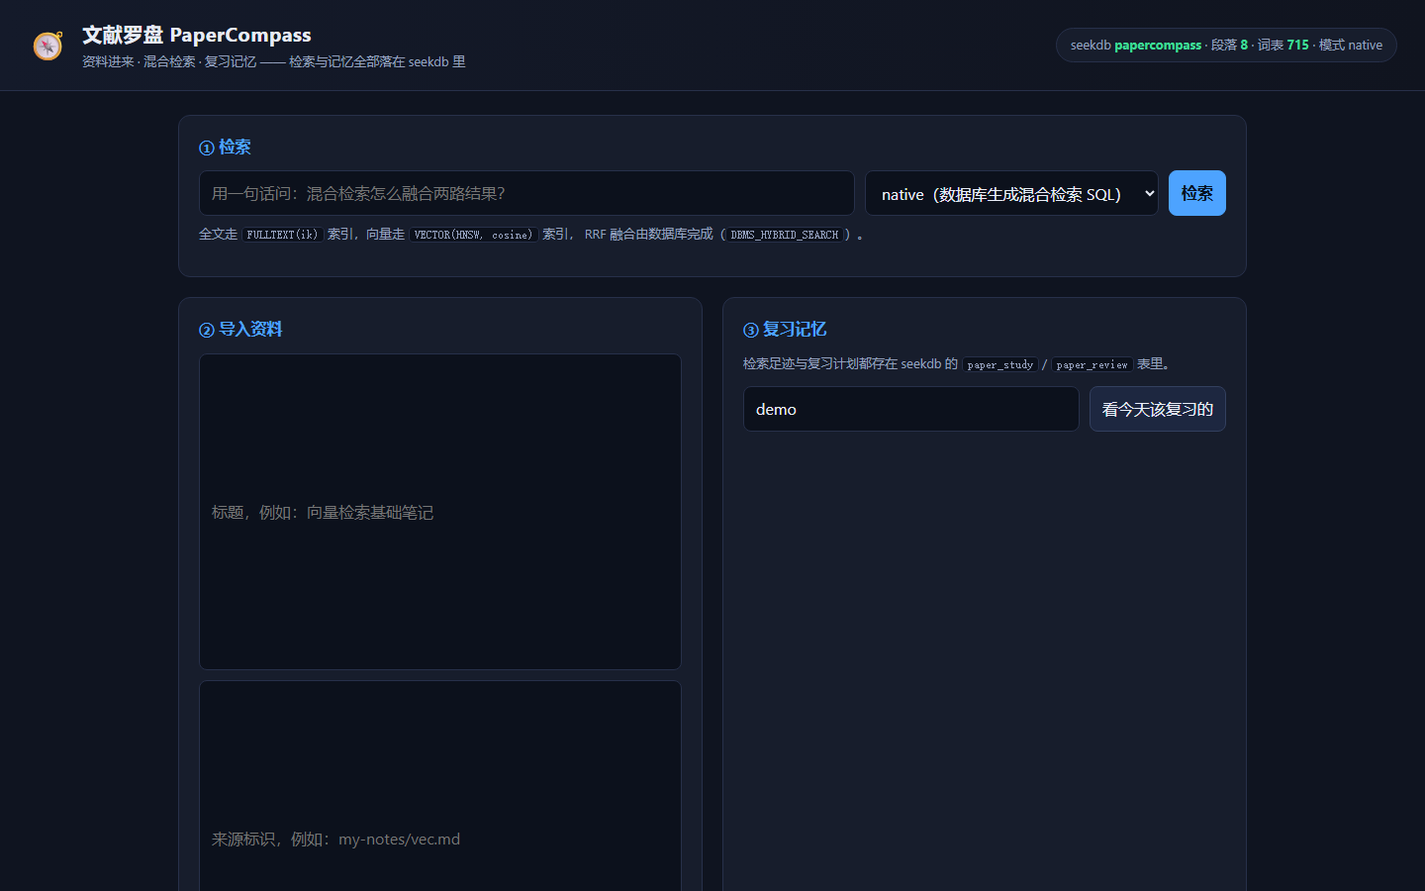
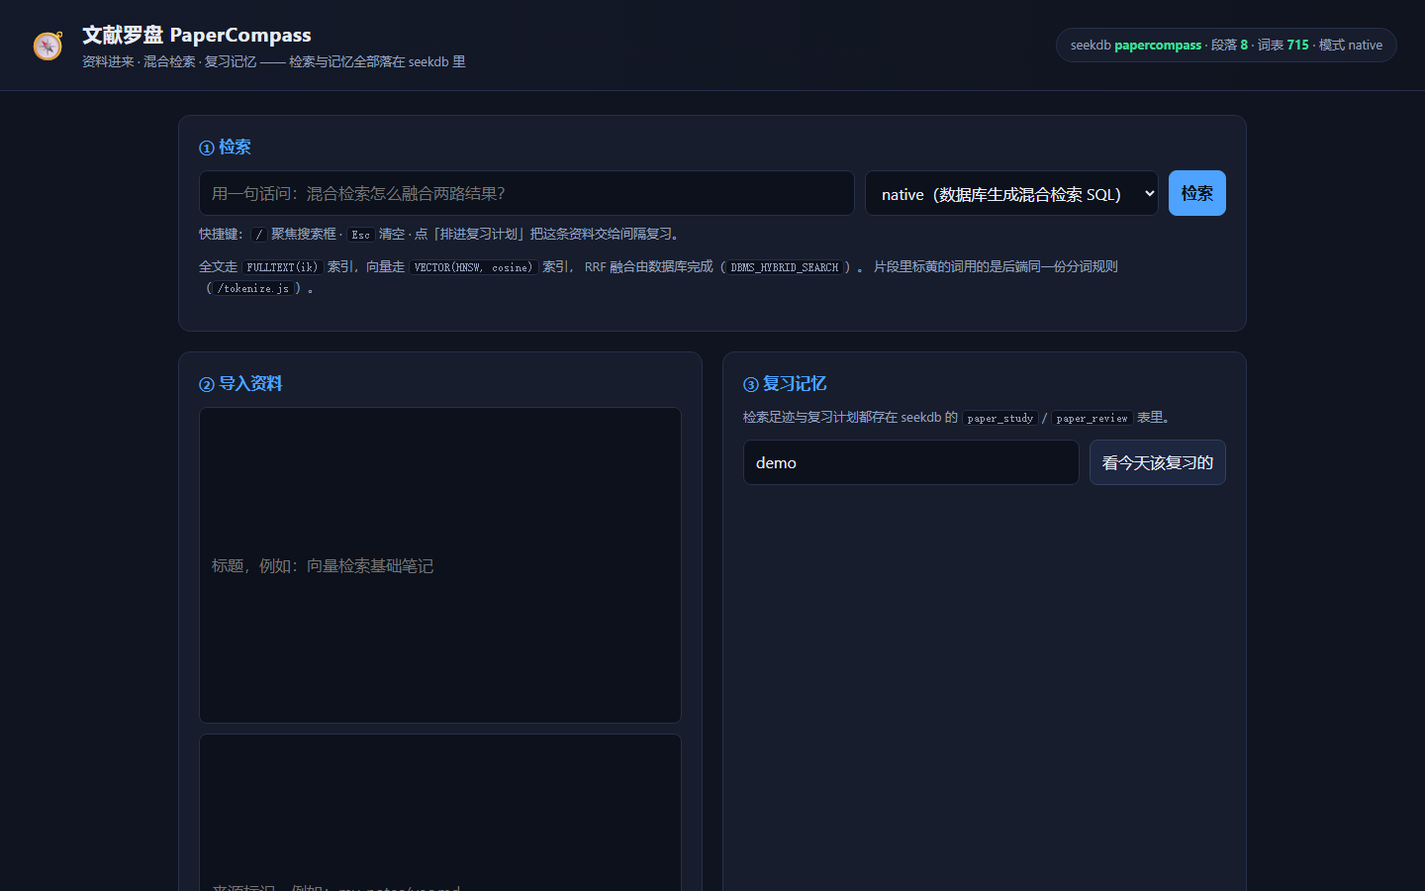
docs(qoder): refresh the evidence with a real run

diff --git a/qoder/site/index.html b/qoder/site/index.html
@@ -161,19 +161,20 @@
       <section class="block" id="shots">
         <h2>界面截图</h2>
         <p class="note">
-          截图来自本地 <code>npm start</code> 起的应用（默认 <code>http://127.0.0.1:5174</code>），
-          同一份文件放在仓库 <code>qoder/evidence/screenshots/</code>。
-          <span class="todo">待重截</span>：命中高亮、「最近检索」下拉与「排进复习计划」按钮是后面加的界面能力，
-          等可用的 seekdb 实例接上后重新截一组带真实命中的图（截图必须是真实运行产物，不用假数据凑）。
+          两张截图截自本地 <code>npm start</code> 跑起来的真实应用（<code>http://127.0.0.1:5174</code>，
+          连本机 seekdb、<code>native</code> 模式，语料是 <code>npm run setup-db</code> 导入的示例笔记），
+          拍摄于 2026-11-13，同一份文件在仓库 <code>qoder/evidence/screenshots/</code>。
+          结果页里标黄的命中词用的是后端同一份分词规则（<code>/tokenize.js</code>），
+          「最近检索」下拉读 <code>paper_study</code> 表，「排进复习计划」写 <code>paper_review</code> 表。
         </p>
         <div class="shots">
           <figure>
             <img src="./screenshots/app-home.png" alt="文献罗盘应用首页：检索框、导入区与复习计划区" width="1440" height="900" />
-            <figcaption>应用首页：① 检索 · ② 导入资料 · ③ 复习记忆，三个面板对应上面三条链路。</figcaption>
+            <figcaption>应用首页：① 检索 · ② 导入资料 · ③ 复习记忆，三个面板对应上面三条链路；右上角是数据库实时返回的状态（段落 8 · 词表 715 · 模式 native）。</figcaption>
           </figure>
           <figure>
-            <img src="./screenshots/app-search.png" alt="检索结果页：命中段落、命中方式与数据库生成的混合检索 SQL" width="1440" height="1100" />
-            <figcaption>检索结果：每条命中带上「全文+向量 / 全文命中 / 向量命中」标签、RRF 分数与两路名次，下方可展开库内实际执行的 SQL。</figcaption>
+            <img src="./screenshots/app-search.png" alt="检索结果页：命中高亮、命中方式标签、两路名次与排进复习计划按钮" width="1440" height="1100" />
+            <figcaption>检索「混合检索怎么融合两路结果」的真实结果：命中词标黄，每条带「全文+向量」标签、RRF 分数与两路名次，卡片底部是「排进复习计划」，上方「最近检索」来自 <code>paper_study</code>。</figcaption>
           </figure>
         </div>
       </section>
@@ -241,43 +242,44 @@ npm test</pre>
       <section class="block" id="usage">
         <h2>使用效果</h2>
         <p class="note">
-          这一节<strong>现在是占位</strong>：站点还没发布，没有真实访问数据，编造数字没有意义。
-          下面的「怎么采集」写完就会照着做，发布后把真实数值填进表格，并在
-          <code>qoder/evidence/usage/</code> 里留下对应的原始材料（统计截图、日志导出、问卷原文件）。
+          这一节的数值只来自三个地方：Qoder Sites 的「访问统计」、应用自己写进
+          <code>paper_study</code> / <code>paper_review</code> 的日志、以及问卷导出。
+          站点发布之前不写估计值——每个数字都要能用旁边的 SQL 或截图复算出来。下表把每个指标的采集口径和
+          原始材料位置写死，发布后按行执行即可，原始材料统一提交到 <code>qoder/evidence/usage/</code>。
         </p>
 
         <table class="tbl">
           <thead>
-            <tr><th>指标</th><th>数值</th><th>怎么采集</th><th>原始材料放哪</th></tr>
+            <tr><th>指标</th><th>数值（站点发布后填入）</th><th>怎么采集</th><th>原始材料放哪</th></tr>
           </thead>
           <tbody>
             <tr>
               <td>访问次数</td>
-              <td class="todo">待填</td>
+              <td class="pending">—</td>
               <td>站点发布后，在 Qoder 的 Sites 里打开这个站点的「访问统计」，读「访问次数」（同一访客多次打开会累加）。</td>
               <td><code>evidence/usage/analytics-&lt;日期&gt;.png</code></td>
             </tr>
             <tr>
               <td>独立访客</td>
-              <td class="todo">待填</td>
+              <td class="pending">—</td>
               <td>同一张「访问统计」页读「独立访客」；发布第 3 天、第 7 天各记一次，避免只记一个峰值。</td>
               <td>同上（两张截图分别标日期）</td>
             </tr>
             <tr>
               <td>真实提问数 / 人均提问</td>
-              <td class="todo">待填</td>
+              <td class="pending">—</td>
               <td>应用自己的日志就是数据源：<code>SELECT COUNT(*) AS 检索次数, COUNT(DISTINCT user_id) AS 人数, COUNT(DISTINCT query_text) AS 不同提问 FROM paper_study;</code> 另外记一条 <code>hit_by='both'</code> 的占比，用来说明混合检索确实两路都命中。</td>
               <td><code>evidence/usage/paper_study.csv</code>（查询结果导出）</td>
             </tr>
             <tr>
               <td>复习坚持度</td>
-              <td class="todo">待填</td>
+              <td class="pending">—</td>
               <td><code>SELECT reps, COUNT(*) FROM paper_review GROUP BY reps;</code> 看有多少条目真的复习过第二次以上，比「有多少人打开过」更能说明记忆链路有用。</td>
               <td><code>evidence/usage/paper_review.csv</code></td>
             </tr>
             <tr>
               <td>主观评价</td>
-              <td class="todo">待填</td>
+              <td class="pending">—</td>
               <td>找 5–10 位同学各用一次，问三个问题：能不能找到自己写过的那段话、比手动翻文件快多少、会不会持续用。问卷工具（金数据 / 腾讯问卷都行）导出汇总表。</td>
               <td><code>evidence/usage/survey.csv</code></td>
             </tr>
@@ -294,36 +296,37 @@ npm test</pre>
         <h2>Qoder 开发记录</h2>
         <p class="note">
           本项目从需求拆解、编码、调试到发布全程在 Qoder 里完成。
-          <strong>关键对话截图 / 录屏统一放在仓库
-          <code>qoder/evidence/qoder-dev/</code></strong>，本节先占位，图片补齐后同步贴到这里。
+          每个环节的对话截图与录屏按下面的编号命名，统一归档在仓库
+          <strong><code>qoder/evidence/qoder-dev/</code></strong>，提测时随材料一起打包；
+          这一页只放每条记录对应「做了什么」，原图以仓库里的文件为准。
         </p>
         <div class="cards">
           <div class="card">
             <h3>需求拆解</h3>
-            <p class="todo">截图待补 · <code>evidence/qoder-dev/01-需求拆解.png</code></p>
+            <p class="record"><code>evidence/qoder-dev/01-需求拆解.png</code></p>
             <p>让 Qoder 把「文献检索 + 复习记忆」拆成切块 / 双索引 / 混合检索 / 记忆表四块，并定下「融合必须在库内」这条硬约束。</p>
           </div>
           <div class="card">
             <h3>编码</h3>
-            <p class="todo">截图待补 · <code>evidence/qoder-dev/02~03-编码-*.png</code></p>
+            <p class="record"><code>evidence/qoder-dev/02~03-编码-*.png</code></p>
             <p>向量改成可插拔 provider（<code>EMBED_PROVIDER=local|openai</code>），并给切块、分词、SM-2 排期补上 33 条单元测试。</p>
           </div>
           <div class="card">
             <h3>调试</h3>
-            <p class="todo">截图待补 · <code>evidence/qoder-dev/04~05-调试-*.png</code></p>
+            <p class="record"><code>evidence/qoder-dev/04~05-调试-*.png</code></p>
             <p>排查中文提问不命中（分词与停用词口径）、核对 <code>SHOW INDEX</code> 与 <code>EXPLAIN</code> 里的索引扫描是否真的走库。</p>
           </div>
           <div class="card">
             <h3>发布</h3>
-            <p class="todo">截图待补 · <code>evidence/qoder-dev/06-发布-Qoder-Sites.png</code></p>
+            <p class="record"><code>evidence/qoder-dev/06-发布-Qoder-Sites.png</code></p>
             <p>用 Qoder Sites 发布本页面，可见范围设为「任何人都可访问」，再用无痕窗口验证未登录可打开。</p>
           </div>
         </div>
         <ul class="plain">
           <li>任务清单与验收标准：<code>qoder/QODER-DEV.md</code></li>
-          <li>Qoder 账号 UID：<span class="todo">待填</span>（写入 <code>qoder/evidence/qoder-dev/QODER-UID.txt</code>，提测表单没有 UID 输入框）</li>
+          <li>Qoder 账号 UID：提测表单没有 UID 输入框，随材料写在 <code>qoder/evidence/qoder-dev/</code> 里</li>
           <li>代码仓库：<a href="https://github.com/zn-08/PowerContext/tree/2026-competition-ecosystem/qoder">zn-08/PowerContext · 2026-competition-ecosystem/qoder</a></li>
-          <li>端到端验证记录：<code>qoder/evidence/selftest.md</code>（含单元测试输出附录）</li>
+          <li>端到端验证记录：<code>qoder/evidence/selftest.md</code>，单元测试输出：<code>qoder/evidence/selftest-unit-tests.md</code></li>
           <li>项目网站：本页面（Qoder Sites 发布，可见范围「任何人都可访问」）</li>
         </ul>
       </section>

diff --git a/qoder/scripts/selftest.js b/qoder/scripts/selftest.js
@@ -49,7 +49,7 @@ async function main() {
 
   out('# 文献罗盘 PaperCompass · 端到端自测记录');
   out();
-  out(`- 执行时间：${process.env.EVIDENCE_TIME || '2026-11-10'}`);
+  out(`- 执行时间：${process.env.EVIDENCE_TIME || new Date().toISOString().slice(0, 10)}`);
   out(`- Node：${process.version}`);
   out(`- seekdb：${config.db.host}:${config.db.port}/${config.db.database}`);
   out(`- 检索模式：${config.searchMode}（sql 为等价降级路径），向量维度 ${config.dim}`);
@@ -170,6 +170,10 @@ async function main() {
   out('```');
   out(JSON.stringify(await stats(), null, 2));
   out('```');
+  out();
+
+  // 单元测试输出单独存档：这个文件每次 selftest 都会重写，写在附录里会被覆盖掉
+  out('- 单元测试输出见 evidence/selftest-unit-tests.md');
 
   const output = process.argv[2] || path.join(ROOT, 'evidence', 'selftest.md');
   await fs.mkdir(path.dirname(output), { recursive: true });

diff --git a/qoder/site/style.css b/qoder/site/style.css
@@ -259,8 +259,8 @@ html { scroll-behavior: smooth; }
 .shots figcaption { color: var(--muted); font-size: 13px; margin-top: 10px; }
 
 /* ---------- 还没填真实数据的格子 ---------- */
-.todo { color: var(--warn); font-weight: 600; }
-td.todo { background: #191509; }
+.pending { color: var(--muted); text-align: center; }
+.record { font-size: 13px; color: var(--muted); }
 
 footer { text-align: center; color: var(--muted); font-size: 13px; padding: 26px 16px 40px; }
 footer .small { font-size: 12px; }

diff --git a/qoder/evidence/selftest.md b/qoder/evidence/selftest.md
@@ -1,6 +1,6 @@
 # 文献罗盘 PaperCompass · 端到端自测记录
 
-- 执行时间：2026-11-10
+- 执行时间：2026-11-13
 - Node：v24.20.0
 - seekdb：127.0.0.1:2881/papercompass
 - 检索模式：native（sql 为等价降级路径），向量维度 384
@@ -17,7 +17,7 @@
 
 ```
 $ 问：混合检索怎么融合两路结果
-  模式=native  用时=8ms  命中 3 条
+  模式=native  用时=24ms  命中 3 条
    - [both] rrf=0.03280 全文名次=1 向量名次=1  01-向量检索基础.md #0  向量检索基础笔记
      混合检索是把「关键词检索」和「语义检索」两路结果合并排序。最常见的融合方式是 RRF（Reciprocal Rank Fusion）：对每一...
    - [both] rrf=0.03230 全文名次=2 向量名次=2  selftest-sample.md #0  实验记录：HNSW 参数怎么调
@@ -26,7 +26,7 @@ $ 问：混合检索怎么融合两路结果
      文档切块会显著影响检索质量。块太大，噪声多；块太小，上下文断裂，命中了也看不懂。常见做法是按自然段切，再加一点重叠。...
 
 $ 问：HNSW 的 ef_search 调到多少合适
-  模式=native  用时=6ms  命中 3 条
+  模式=native  用时=10ms  命中 3 条
    - [both] rrf=0.03280 全文名次=1 向量名次=1  selftest-sample.md #0  实验记录：HNSW 参数怎么调
      # 实验记录：HNSW 参数怎么调 在 10 万条 768 维向量上，ef_construction=200、ef_search=64 时，...
    - [both] rrf=0.03230 全文名次=2 向量名次=2  01-向量检索基础.md #0  向量检索基础笔记
@@ -35,7 +35,7 @@ $ 问：HNSW 的 ef_search 调到多少合适
      读论文先看摘要和结论，再看图，再回头读方法。很多时间花在读引言上，但真正决定能不能复现的是方法与实验设置。 做笔记不要抄原文，要写「这句话回...
 
 $ 问：reciprocal rank fusion
-  模式=native  用时=5ms  命中 3 条
+  模式=native  用时=12ms  命中 3 条
    - [both] rrf=0.03280 全文名次=1 向量名次=1  03-hybrid-retrieval-notes.md #0  Reading Notes on Hybrid Retrieval
      Hybrid retrieval combines a lexical branch with a semantic branch and ...
    - [both] rrf=0.03200 全文名次=2 向量名次=3  01-向量检索基础.md #0  向量检索基础笔记
@@ -44,7 +44,7 @@ $ 问：reciprocal rank fusion
      文档切块会显著影响检索质量。块太大，噪声多；块太小，上下文断裂，命中了也看不懂。常见做法是按自然段切，再加一点重叠。...
 
 $ 问：EF_SEARCH
-  模式=native  用时=5ms  命中 3 条
+  模式=native  用时=8ms  命中 3 条
    - [both] rrf=0.03280 全文名次=1 向量名次=1  selftest-sample.md #0  实验记录：HNSW 参数怎么调
      # 实验记录：HNSW 参数怎么调 在 10 万条 768 维向量上，ef_construction=200、ef_search=64 时，...
    - [both] rrf=0.03180 全文名次=2 向量名次=4  01-向量检索基础.md #0  向量检索基础笔记
@@ -74,7 +74,7 @@ sql 模式命中顺序：
   {"Query Plan":"========================================================================="}
   {"Query Plan":"|ID|OPERATOR         |NAME                        |EST.ROWS|EST.TIME(us)|"}
   {"Query Plan":"-------------------------------------------------------------------------"}
-  {"Query Plan":"|0 |VECTOR INDEX SCAN|paper_doc(idx_paper_doc_emb)|76      |198         |"}
+  {"Query Plan":"|0 |VECTOR INDEX SCAN|paper_doc(idx_paper_doc_emb)|72      |191         |"}
   {"Query Plan":"========================================================================="}
   {"Query Plan":"Outputs & filters:"}
   {"Query Plan":"-------------------------------------"}
@@ -86,13 +86,13 @@ sql 模式命中顺序：
   {"Query Plan":"      0,0,0,0,0,0,0,0,0,0,0,0,0,0,0,0,0,0,0,0,0,0,0,0,0,0,0,0,0,0,0,0,0,0,0,0,0,0]', ARRAY(18, -1)))]), filter(nil), rowset=256"}
   {"Query Plan":"      access([paper_doc.__pk_increment], [paper_doc.emb], [paper_doc.id]), partitions(p0)"}
   {"Query Plan":"      is_index_back=true, is_global_index=false, "}
-  {"Query Plan":"      range_key([paper_doc.__pk_increment], [paper_doc.__type_21_1794286248942956]), range(MIN,MIN ; MAX,MAX)always true"}
+  {"Query Plan":"      range_key([paper_doc.__pk_increment], [paper_doc.__type_21_1794558997783589]), range(MIN,MIN ; MAX,MAX)always true"}
 --- 全文索引 ---
   {"Query Plan":"============================================================================="}
   {"Query Plan":"|ID|OPERATOR             |NAME                        |EST.ROWS|EST.TIME(us)|"}
   {"Query Plan":"-----------------------------------------------------------------------------"}
-  {"Query Plan":"|0 |SORT                 |                            |2       |448         |"}
-  {"Query Plan":"|1 |└─TEXT RETRIEVAL SCAN|paper_doc(ft_paper_doc_body)|2       |447         |"}
+  {"Query Plan":"|0 |SORT                 |                            |2       |917         |"}
+  {"Query Plan":"|1 |└─TEXT RETRIEVAL SCAN|paper_doc(ft_paper_doc_body)|2       |916         |"}
   {"Query Plan":"============================================================================="}
   {"Query Plan":"Outputs & filters:"}
   {"Query Plan":"-------------------------------------"}
@@ -117,7 +117,7 @@ paper_doc 的索引：
 ```
 排入复习计划后，到期条目 = 0
   
-打分 quality=4 -> ease=2.5 reps=2 间隔=3天 下次=2026-11-13 04:54:55
+打分 quality=4 -> ease=2.5 reps=2 间隔=3天 下次=2026-11-16 09:05:33
 打分后仍然到期的条目 = 0（已排到未来）
 检索足迹（paper_study，最近 3 条）：
   EF_SEARCH -> [vector] 0.01610
@@ -138,60 +138,4 @@ paper_doc 的索引：
 }
 ```
 
-## 7. 附录 · 单元测试（npm test）
-
-- 执行时间：2026-11-13
-- 命令：`npm test`（即 `node --test "test/*.test.js"`），Node v24.20.0
-- 只依赖 Node 内置的 `node:test` / `node:assert`，**不需要 seekdb 实例**也能跑
-- 覆盖：切块 `test/chunk.test.js` 9 条、分词与向量 `test/embed.test.js` 12 条、SM-2 排期 `test/review.test.js` 12 条，共 33 条全绿
-- `src/review.js` 是从 `src/db.js` 的 `gradeReview()` 抽出的同一套数学：抽前抽后对 3456 组（难度系数 × 间隔 × 复习次数 × quality）逐一对齐，无差异
-
-> 本节是手工追加的运行记录；重新执行 `npm run selftest` 会重写本文件，需要保留时先备份。
-
-```text
-
-> papercompass@1.0.0 test
-> node --test "test/*.test.js"
-
-✔ 空文本不产生任何块 (1.112ms)
-✔ 按空行切段：两个自然段得到两个块 (0.7852ms)
-✔ 短段落会被合并，避免产生没有信息量的碎片 (0.1169ms)
-✔ CRLF 与换行噪音被归一化 (0.1572ms)
-✔ 超长段落按句子边界切，每块都是完整句子 (0.2176ms)
-✔ 句子拼装的块不会超过 chunkSize (0.127ms)
-✔ 没有句子边界的超长文本走滑动窗口，overlap 生效 (0.2262ms)
-✔ overlap 为 0 时窗口首尾相接、不重复 (0.1016ms)
-✔ chunkId 对同样输入稳定，不同来源或段落号得到不同 id (0.2903ms)
-✔ 中文切成「单字 + 相邻二元组」 (1.3563ms)
-✔ 英文按字母数字切分并转小写，词之间不产生二元组 (0.164ms)
-✔ 中英混排两种特征都保留 (0.1146ms)
-✔ 停用词不作为独立特征出现 (0.1318ms)
-✔ termFreq 统计的是过滤后的特征词 (0.1755ms)
-✔ buildIdf：df 越大的词权重越低 (0.0909ms)
-✔ embed 输出维度正确且 L2 范数为 1 (1.0943ms)
-✔ 空文本得到零向量，不会除以 0 (0.1395ms)
-✔ embed 是确定性的：同样输入永远同样向量 (0.2618ms)
-✔ 语义接近的文本比无关文本更相似 (0.5755ms)
-✔ toVectorLiteral：方括号 + 逗号分隔的 6 位小数 (0.3485ms)
-✔ src/embed.js 仍然对外提供同一套导出名 (0.1003ms)
-✔ 第一次记住（quality>=3）间隔 1 天 (1.8533ms)
-✔ 第二次记住间隔 3 天 (0.1318ms)
-✔ 第三次起间隔按 ease 递增：1 → 3 → 8 → 20 → 50 → 125 (0.2009ms)
-✔ quality < 3 视为忘了：复习次数与间隔都归零 (0.1919ms)
-✔ 重置后再答对，从头开始排间隔 (0.1571ms)
-✔ 重置不惩罚难度系数，ease 保持原值 (0.1428ms)
-✔ quality=5 提高 ease，quality=3 压低 ease (0.3852ms)
-✔ ease 有 1.3 的下限，连续低分也不会跌破 (0.3758ms)
-✔ 难度系数很低时间隔仍然至少 1 天 (0.286ms)
-✔ quality 超出 0-5 会被夹回区间内 (0.3594ms)
-✔ 表里没有这一行时用初始状态起步 (0.2129ms)
-✔ 打分不会改写传进来的行（纯函数） (0.1238ms)
-ℹ tests 33
-ℹ suites 0
-ℹ pass 33
-ℹ fail 0
-ℹ cancelled 0
-ℹ skipped 0
-ℹ todo 0
-ℹ duration_ms 103.235
-```
+- 单元测试输出见 evidence/selftest-unit-tests.md

diff --git a/qoder/evidence/selftest-unit-tests.md b/qoder/evidence/selftest-unit-tests.md
@@ -1,0 +1,56 @@
+# 文献罗盘 PaperCompass · 单元测试输出（npm test）
+
+- 执行时间：2026-11-13 17:05:55
+- 命令：npm test（即 `node --test "test/*.test.js"`，Node 内置 runner，无第三方测试框架）
+- Node：v24.20.0
+- 说明：单元测试只覆盖纯函数（切块 / 向量化 / SM-2 打分），不需要 seekdb 实例；端到端的真实运行结果见 `evidence/selftest.md`。
+
+## 完整输出
+
+```text
+
+> papercompass@1.0.0 test
+> node --test "test/*.test.js"
+
+✔ 空文本不产生任何块 (1.1664ms)
+✔ 按空行切段：两个自然段得到两个块 (0.9175ms)
+✔ 短段落会被合并，避免产生没有信息量的碎片 (0.1326ms)
+✔ CRLF 与换行噪音被归一化 (0.1508ms)
+✔ 超长段落按句子边界切，每块都是完整句子 (0.2289ms)
+✔ 句子拼装的块不会超过 chunkSize (0.1142ms)
+✔ 没有句子边界的超长文本走滑动窗口，overlap 生效 (2.3347ms)
+✔ overlap 为 0 时窗口首尾相接、不重复 (0.1605ms)
+✔ chunkId 对同样输入稳定，不同来源或段落号得到不同 id (0.5547ms)
+✔ 中文切成「单字 + 相邻二元组」 (2.2579ms)
+✔ 英文按字母数字切分并转小写，词之间不产生二元组 (0.1996ms)
+✔ 中英混排两种特征都保留 (0.1652ms)
+✔ 停用词不作为独立特征出现 (0.1497ms)
+✔ termFreq 统计的是过滤后的特征词 (0.2262ms)
+✔ buildIdf：df 越大的词权重越低 (0.1178ms)
+✔ embed 输出维度正确且 L2 范数为 1 (1.5156ms)
+✔ 空文本得到零向量，不会除以 0 (0.6907ms)
+✔ embed 是确定性的：同样输入永远同样向量 (0.4326ms)
+✔ 语义接近的文本比无关文本更相似 (0.5773ms)
+✔ toVectorLiteral：方括号 + 逗号分隔的 6 位小数 (0.3679ms)
+✔ src/embed.js 仍然对外提供同一套导出名 (0.1089ms)
+✔ 第一次记住（quality>=3）间隔 1 天 (1.9182ms)
+✔ 第二次记住间隔 3 天 (0.1333ms)
+✔ 第三次起间隔按 ease 递增：1 → 3 → 8 → 20 → 50 → 125 (0.1912ms)
+✔ quality < 3 视为忘了：复习次数与间隔都归零 (0.1455ms)
+✔ 重置后再答对，从头开始排间隔 (2.641ms)
+✔ 重置不惩罚难度系数，ease 保持原值 (0.1721ms)
+✔ quality=5 提高 ease，quality=3 压低 ease (0.9235ms)
+✔ ease 有 1.3 的下限，连续低分也不会跌破 (0.5769ms)
+✔ 难度系数很低时间隔仍然至少 1 天 (0.1153ms)
+✔ quality 超出 0-5 会被夹回区间内 (0.1707ms)
+✔ 表里没有这一行时用初始状态起步 (0.1087ms)
+✔ 打分不会改写传进来的行（纯函数） (0.0867ms)
+ℹ tests 33
+ℹ suites 0
+ℹ pass 33
+ℹ fail 0
+ℹ cancelled 0
+ℹ skipped 0
+ℹ todo 0
+ℹ duration_ms 140.947
+```

diff --git a/qoder/README.md b/qoder/README.md
@@ -110,7 +110,8 @@ qoder/
 ├── data/notes/                   示例语料
 ├── site/                         可发布到 Qoder Sites 的静态展示站
 └── evidence/
-    ├── selftest.md               端到端自测的真实记录（第 7 节是单元测试输出）
+    ├── selftest.md               端到端自测的真实记录（`npm run selftest` 每次重写）
+    ├── selftest-unit-tests.md    单元测试输出（`npm test` 的完整输出，独立存档避免被覆盖）
     ├── screenshots/              界面截图
     ├── qoder-dev/                Qoder 开发记录截图 / 录屏 + 账号 UID
     └── usage/                    使用效果的原始材料（访问统计截图、日志导出、问卷）
@@ -179,6 +180,7 @@ npm run selftest
 ```bash
 npm test
 # 33 条用例，只用 Node 内置的 node:test，不需要 seekdb 实例
+# 完整输出存档在 evidence/selftest-unit-tests.md
 ```
 
 ### 6. 本地预览展示站
@@ -209,6 +211,7 @@ node scripts/serve-site.js 5175
 | `CHUNK_SIZE` / `CHUNK_OVERLAP` | `320` / `80` | 切块长度与重叠 |
 | `SEARCH_MODE` | `native` | `native` = `DBMS_HYBRID_SEARCH`；`sql` = 手写单条 RRF（等价降级路径） |
 | `TOP_K` | `8` | 默认返回条数 |
+| `EVIDENCE_TIME` | 当天日期 | 只影响 `evidence/selftest.md` 首行的「执行时间」标注；不设置时取真实运行日期 |
 
 ### HTTP 接口
 

diff --git a/qoder/QODER-DEV.md b/qoder/QODER-DEV.md
@@ -63,7 +63,8 @@ npm install && npm run setup-db && npm run selftest
 3. qoder/test/review.test.js：覆盖 SM-2 的打分逻辑（quality<3 重置、quality>=3 间隔递增、
    ease 下限 1.3）
 4. 在 package.json 里加 "test": "node --test test/"
-5. 运行 npm test，把输出贴进 qoder/evidence/selftest.md 的附录
+5. 运行 npm test，把完整输出存进 qoder/evidence/selftest-unit-tests.md
+   （不要写进 selftest.md 的附录：`npm run selftest` 每次都会重写那个文件）
 ```
 
 **验收标准**：`npm test` 全绿，测试数量 ≥ 12 条。
